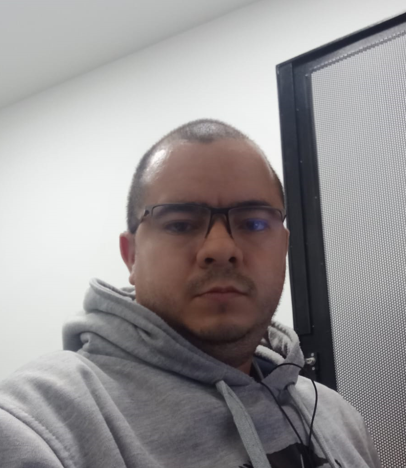
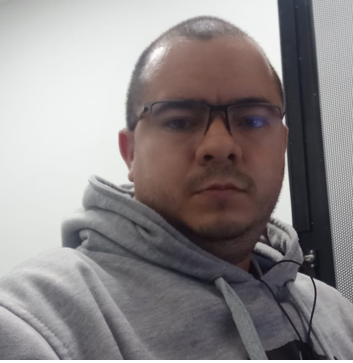
se recorto foto Mario y se ajusto el tamaño de las targetas

diff --git a/assets/css/nostros.css b/assets/css/nostros.css
@@ -37,7 +37,7 @@ body {
   background-color: #fff;
   border-radius: 10px;
   box-shadow: 0 4px 8px rgba(0,0,0,0.1);
-  max-width: 300px;
+  max-width: 265px;
   padding: 1rem;
   text-align: left;
   transition: transform 0.3s ease;
